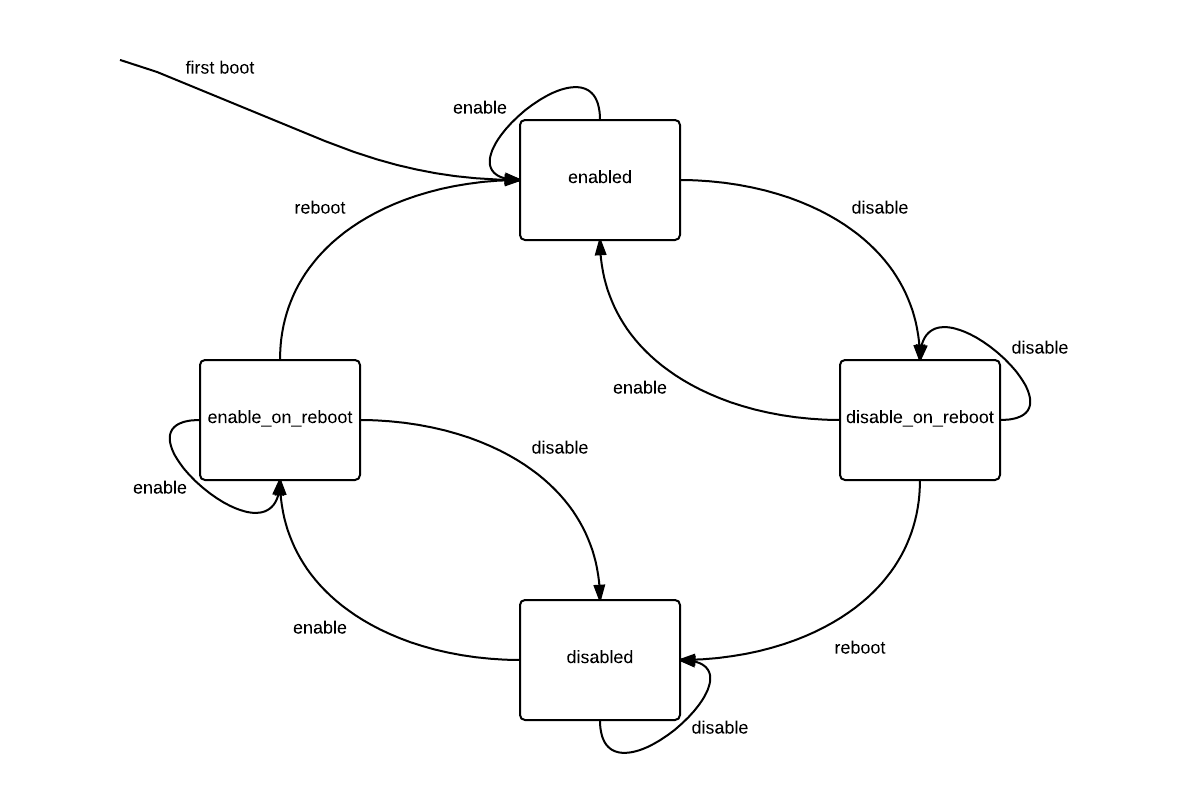
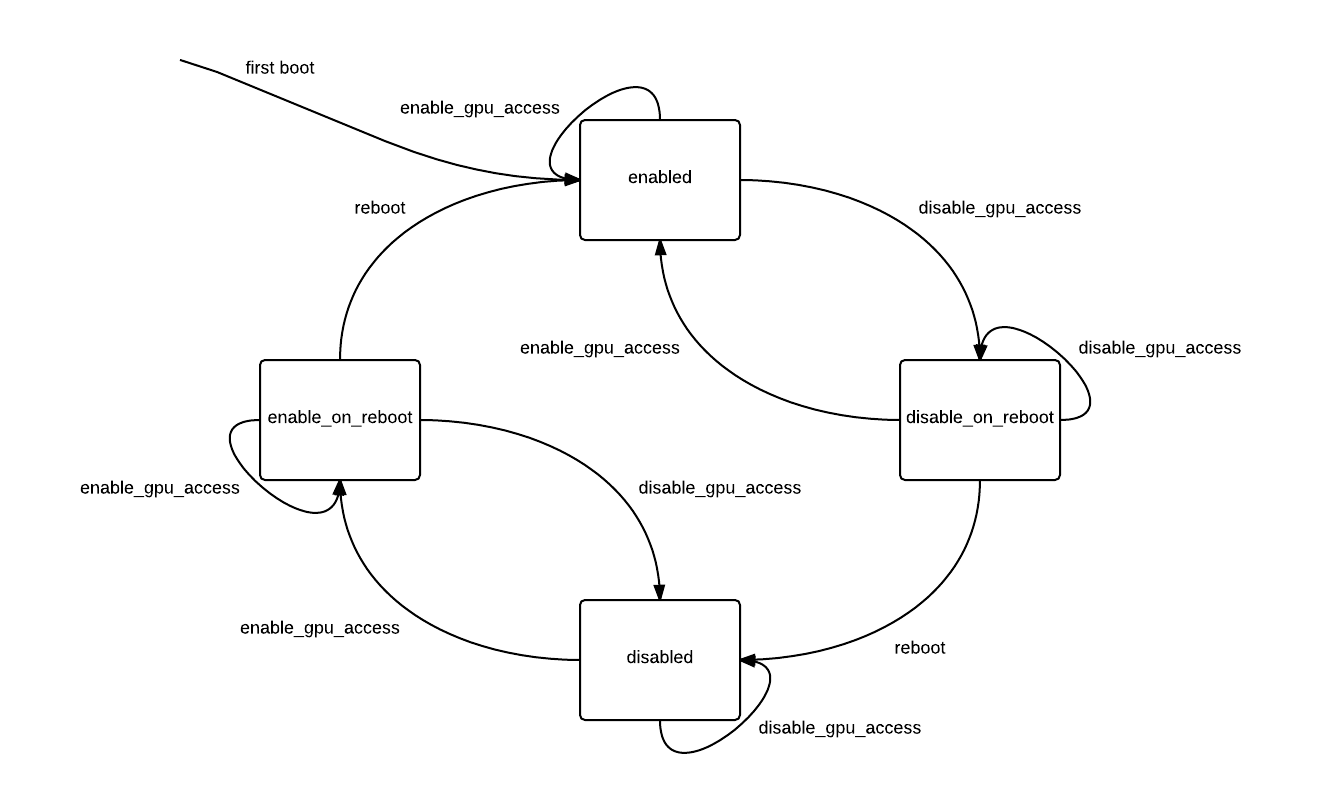
Revision 3 of the integrated GPU passthrough proposal

diff --git a/features/futures/integrated-gpu-passthrough.md b/features/futures/integrated-gpu-passthrough.md
@@ -2,7 +2,7 @@
 title: Integrated GPU passthrough support
 layout: default
 design_doc: true
-revision: 2
+revision: 3
 status: proposed
 ---
 
@@ -21,24 +21,30 @@ GPUs.
 Host Configuration
 ------------------
 
-A new PGPU field will be added:
+New fields will be added:
 
+- `host.display enum(enabled|disable_on_reboot|disabled|enable_on_reboot)`
 - `PGPU.dom0_access enum(enabled|disable_on_reboot|disabled|enable_on_reboot)`
 
 as well as new API calls:
 
-- `PGPU.enable_dom0_access`
-- `PGPU.disable_dom0_access`
+- `host.enable_GPU_access`
+- `host.disable_GPU_access`
 
-Disabling dom0 access will modify the xen commandline (using the xen-cmdline
-tool) such that dom0 will not be able to access the GPU on next boot.
+Calling `host.disable_GPU_access` will modify the host boot config (using the
+xen-cmdline tool) such that after the next boot dom0 will not be able to access
+any integrated GPUs, and neither xen nor dom0 will attempt to use the the VGA
+graphics adapter on next boot.
 
-A state diagram for the field PGPU.dom0_access is shown below:
+A state diagram for the fields PGPU.dom0_access and host.display is shown below:
 
 ![host.integrated_GPU_passthrough flow diagram](integrated-gpu-passthrough.png)
 
-Note that when a client enables or disables dom0 access for a PGPU, the change
-can be cancelled until the host is rebooted.
+Although the two fields will be modified in unison, they represent different
+settings and we may wish to modify them independently in the future.
+
+Note that when a client enables or disables host GPU access, the change can be
+cancelled until the host is rebooted.
 
 Handling vga_arbiter
 --------------------
